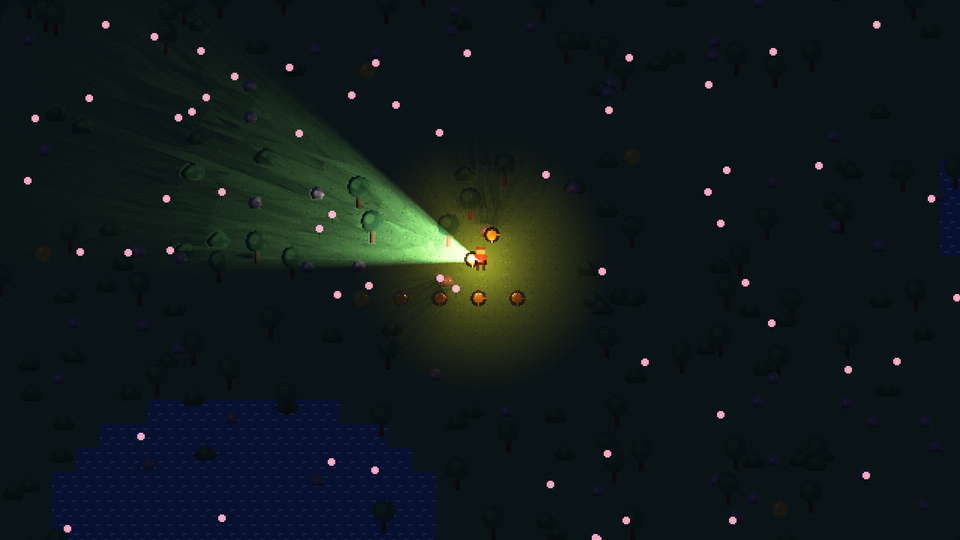
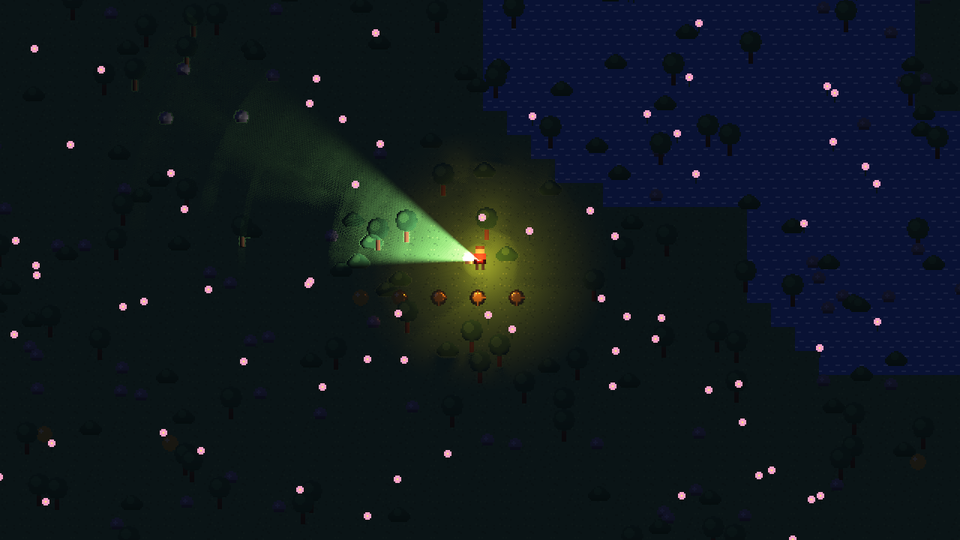
Docs: sun shadow length, multiple runs, new captures
Explains shadow_reach as the length of the sun's shadows, the runs the 1D
shadow map keeps, the automatic column count, and the new timings. Captures
of the lighting page are retaken.

diff --git a/docs/pages/lighting.md b/docs/pages/lighting.md
@@ -77,7 +77,7 @@ njin::lighting_desc gồm:
 | `exposure` | Hệ số nhân toàn bộ ánh sáng **trước tonemap**, như độ phơi sáng máy ảnh. Đổi dần để làm bình minh, hoặc vào hang |
 | `tonemap` | Cách nén HDR về màn hình (bảng dưới) |
 | `scale` | 1 là chi tiết đầy đủ. Nhỏ hơn thì cả ảnh đã chiếu sáng tính ở độ phân giải thấp rồi phóng lên: nhanh hơn nhiều, nhưng mờ |
-| `shadow_reach` | Khoảng đèn hướng dò bóng của đa giác, đơn vị thế giới |
+| `shadow_reach` | **Độ dài bóng của đèn hướng**, đơn vị thế giới (xem dưới) |
 | `shadow_columns`, `pixel_alpha`, `occluder_margin` | Bóng từng pixel, xem dưới |
 
 | `tonemap` | Đặc điểm |
@@ -87,6 +87,13 @@ njin::lighting_desc gồm:
 | `tonemap_aces` | ACES filmic (xấp xỉ của Narkowicz): tương phản điện ảnh, bão hòa vừa. Nên đặt `exposure` cao hơn. Phím `T` trong demo đổi qua lại |
 
 `lighting_set()` gọi mỗi frame được. Đặt `ambient` và `exposure` theo giờ trong ngày là cách làm chu kỳ ngày đêm.
+
+### Độ dài bóng của mặt trời
+
+Một vật cao H bị mặt trời ở góc `elevation` chiếu thì đổ bóng dài `H / tan(elevation)`, không phải mãi mãi. **`shadow_reach` đặt độ dài đó**: một vật chắn xa hơn thế phía sau
+không đổ bóng lên điểm đang xét. Với cây cao 24 đơn vị và mặt trời 30 độ, khoảng 40 là hợp. Mặc định 600 là bóng gần như vô hạn: chỉ đúng khi vật chắn thưa; ở một khu rừng dày,
+bất kỳ tia nào cũng gặp một thân cây ở đâu đó phía trên, nên cả bản đồ chìm trong bóng. Áp dụng cho cả bóng đa giác và bóng từng pixel. Độ mềm của bóng (`size` của đèn hướng) là một đĩa mặt trời có kích thước
+góc cố định `size / 600`, không phụ thuộc `shadow_reach`.
 
 ## PBR: vật liệu của sprite
 
@@ -137,13 +144,15 @@ Vật chắn **đi theo entity**: di chuyển, xoay, co giãn cùng nó; nhân v
 
 @image html render_light_pixels.png "Từng pixel (ví dụ trên): cây bên trái để cả ảnh chắn sáng nên bóng có cả tán lá; cây bên phải dùng ảnh mặt nạ chỉ có thân cây nên bóng chỉ là một vệt hẹp. Bóng mờ dần theo khoảng cách từ vật chắn"
 
-Cách chạy, theo bài của mattdesl: các sprite có `light_occluder_pixels` được vẽ vào một ảnh (**bản đồ vật chắn**, lấy alpha); với mỗi đèn, một shader đi tia theo từng góc quanh đèn (cột của **bản đồ bóng 1D**), ghi chỗ vật chắn đầu tiên bắt đầu
-và kết thúc. Khi tô sáng, mỗi pixel của cảnh tra cột ứng với góc của nó: sau chỗ kết thúc là trong bóng. Nhiều mẫu lân cận, rộng đúng bằng vùng nửa tối mà `size` của đèn tạo ra từ độ sâu trung bình
-của vật chắn (tìm vật chắn rồi lọc, kiểu PCSS), làm bóng mềm. Đèn hướng dùng các dải song song thay cho các góc.
+Cách chạy, theo bài của mattdesl: các sprite có `light_occluder_pixels` được vẽ vào một ảnh (**bản đồ vật chắn**, lấy alpha); với mỗi đèn, một shader đi tia theo từng góc quanh đèn (cột của **bản đồ bóng 1D**), ghi các đoạn vật chắn
+mà tia đi qua (chỗ bắt đầu và kết thúc). Khi tô sáng, mỗi pixel của cảnh tra cột ứng với góc của nó: sau chỗ kết thúc của một đoạn là trong bóng của nó. Đèn điểm chỉ cần đoạn đầu tiên (bóng của nó không có điểm cuối);
+đèn hướng, vì bóng có độ dài, giữ tối đa 8 đoạn mỗi cột và lấy đoạn gần nhất phía sau điểm đang xét, nên một thân cây sau hòn đá vẫn đổ bóng riêng. Nhiều mẫu lân cận (16 mẫu, mỗi mẫu trong một phần bằng nhau của vùng nửa tối,
+dịch bằng một độ lệch riêng cho từng pixel) rộng đúng bằng vùng nửa tối mà `size` của đèn tạo ra từ độ sâu trung bình của vật chắn (tìm vật chắn rồi lọc, kiểu PCSS): mọi phần đều được lấy mẫu nên vật chắn mảnh không lọt giữa các mẫu và
+để lại các tia nan quạt; phần sai số còn lại là hạt mịn. Đèn hướng dùng các dải song song thay cho các góc.
 
 - **`mask`** chọn ảnh làm vật chắn (cùng kích thước và cách xếp frame với ảnh sprite). Để trống là dùng chính ảnh sprite. Dùng để chỉ thân cây chắn sáng chứ không phải cả tán lá.
-- **`lighting_desc::pixel_alpha`** là ngưỡng alpha coi là đặc (mặc định 0.5); **`shadow_columns`** là số cột của bản đồ bóng, nhiều thì bóng sắc hơn ở xa đèn (mặc định 1024);
-  **`occluder_margin`** là bề rộng dải ngoài màn hình được đọc (mặc định 96).
+- **`lighting_desc::pixel_alpha`** là ngưỡng alpha coi là đặc (mặc định 0.5); **`shadow_columns`** là số cột của bản đồ bóng, 0 (mặc định) là tự chọn sao cho tia cách nhau khoảng một pixel ở rìa đèn rộng nhất;
+  ít cột hơn thì vật chắn mảnh lọt giữa hai tia và bóng xa đèn vỡ thành các tia nan quạt; **`occluder_margin`** là bề rộng dải ngoài màn hình được đọc (mặc định 96).
 - Vật chắn **không tự che chính nó**: điểm nằm trong khối đầu tiên trên tia, tức chính vật đó, vẫn sáng; và đèn nằm trong một vật chắn (đuốc trên người) không bị nó chặn.
 - Lỗi cần biết: chỉ vật chắn trong ảnh màn hình mở rộng mới đổ bóng; bóng cỡ pixel của ảnh (không mượt hơn ảnh); vật chắn nhỏ hơn một texel của bản đồ (nếu `scale` nhỏ) có thể mất.
 
@@ -232,7 +241,9 @@ Số đo trên máy dev (RTX 3050 Laptop, 1280 x 720, 3000 sprite trên bản đ
 | Không ánh sáng | khoảng 1.9 ms |
 | 6 đèn, không bóng | khoảng 5.0 ms |
 | 6 đèn, bóng đa giác (2250 vật chắn) | khoảng 6.7 ms |
-| 6 đèn, bóng từng pixel (mọi cây, bụi, đá) | khoảng 5.7 ms |
+| 6 đèn, bóng từng pixel (mọi cây, bụi, đá) | khoảng 5.9 ms |
+| Một đèn hướng phủ cả màn hình, bóng đa giác | khoảng 5.4 ms |
+| Một đèn hướng phủ cả màn hình, bóng từng pixel | khoảng 8 ms |
 
 Con số của máy bạn sẽ khác; đo bằng `run_inspected.bat render_demo` và njin_inspector. Nếu cần nhanh hơn, theo thứ tự hiệu quả: giảm số đèn có bóng
 (`cast_shadows = false` cho đèn nhỏ), giảm `radius`, `scale = 0.5`, tắt vật liệu và normal (không tốn G-buffer), giảm `shadow_columns`, bớt số cạnh của vật chắn đa giác.
